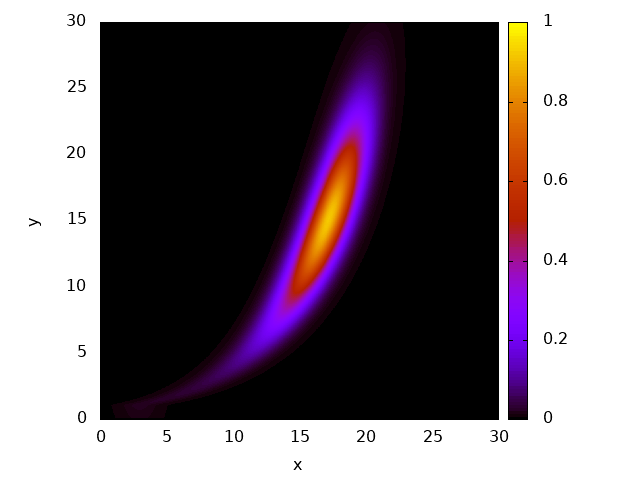
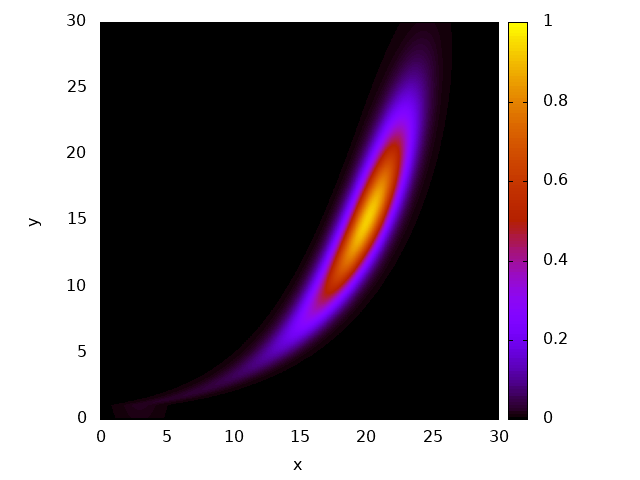
working with u_*=0.2

Changed region(s): [[0.2812, 0.0312, 0.7188, 0.8125]]

diff --git a/advection2D.c b/advection2D.c
@@ -74,7 +74,7 @@ int main(){
   const float vely=0.0; // Velocity in y direction, changed to 0. (no vertical movement)
 
   const double z_0 = 1.0;     // Roughness length
-  const double u_star = 0.12; // Friction velocity
+  const double u_star = 0.2; // Friction velocity
   const double kappa = 0.41;  // Von Karman constant
 
   /* Arrays to store variables. These have NX+2 elements
@@ -161,12 +161,13 @@ int main(){
   // End of comparison
 
 
-  
-  /*** Update solution by looping over time steps ***/
+  // Store the max velocity from the result on eq 1 to be used to calculate the time step
+  float max_velx = 0.0;
+
+
   /* LOOP 5 */
   // This isn't parallelisable becasue each iteration can depend on the previous one and parallelising it could cause a race condition
   for (int m=0; m<nsteps; m++){
-    
     /*** Apply boundary conditions at u[0][:] and u[NX+1][:] ***/
     /* LOOP 6 */
     // This loop can be parallelised as each iteration is independent of the others
@@ -185,7 +186,6 @@ int main(){
       u[i][NY+1] = bval_upper;
     }
     
-
     /*** Calculate rate of change of u using leftward difference ***/
     /* Loop over points in the domain but not boundary values */
     /* LOOP 8 */
@@ -197,19 +197,25 @@ int main(){
     for (int i = 1; i < NX + 1; i++) {
       for (int j = 1; j < NY + 1; j++) {
         float z = y[j];
-
+        // ln(0) = error 
         float horizontal_velocity;
         if (z > z_0) {
+          // Chekc if z / z_0 is 0 and if so set horizontal_velocity to 0
           horizontal_velocity = (u_star / kappa) * log(z / z_0); // eq 1
+          
         } else if (z <= z_0) {
           horizontal_velocity = 0.0;
         }
 
         dudt[i][j] =  - horizontal_velocity * (u[i][j] - u[i - 1][j]) / dx
                       - vely * (u[i][j] - u[i][j - 1]) / dy;
+        max_velx = fmax(max_velx, fabs(horizontal_velocity));
       }
     }
-    
+
+
+    // Recalculate the time step using the CFL condition with the correct maximum velocity
+    dt = CFL / ((fabs(max_velx) / dx) + (fabs(vely) / dy));
 
     /*** Update u from t to t+dt ***/
     /* Loop over points in the domain but not boundary values */
@@ -222,7 +228,6 @@ int main(){
         u[i][j] = u[i][j] + dudt[i][j] * dt;
       }
     }
-
 
     // Calculate the vertically averaged distribution
     for (int i = 1; i <= NX; i++) {
@@ -250,6 +255,7 @@ int main(){
   /* LOOP 10 */
   for (int i=0; i<NX+2; i++){
     for (int j=0; j<NY+2; j++){
+
       fprintf(finalfile, "%g %g %g\n", x[i], y[j], u[i][j]);
     }
   }
